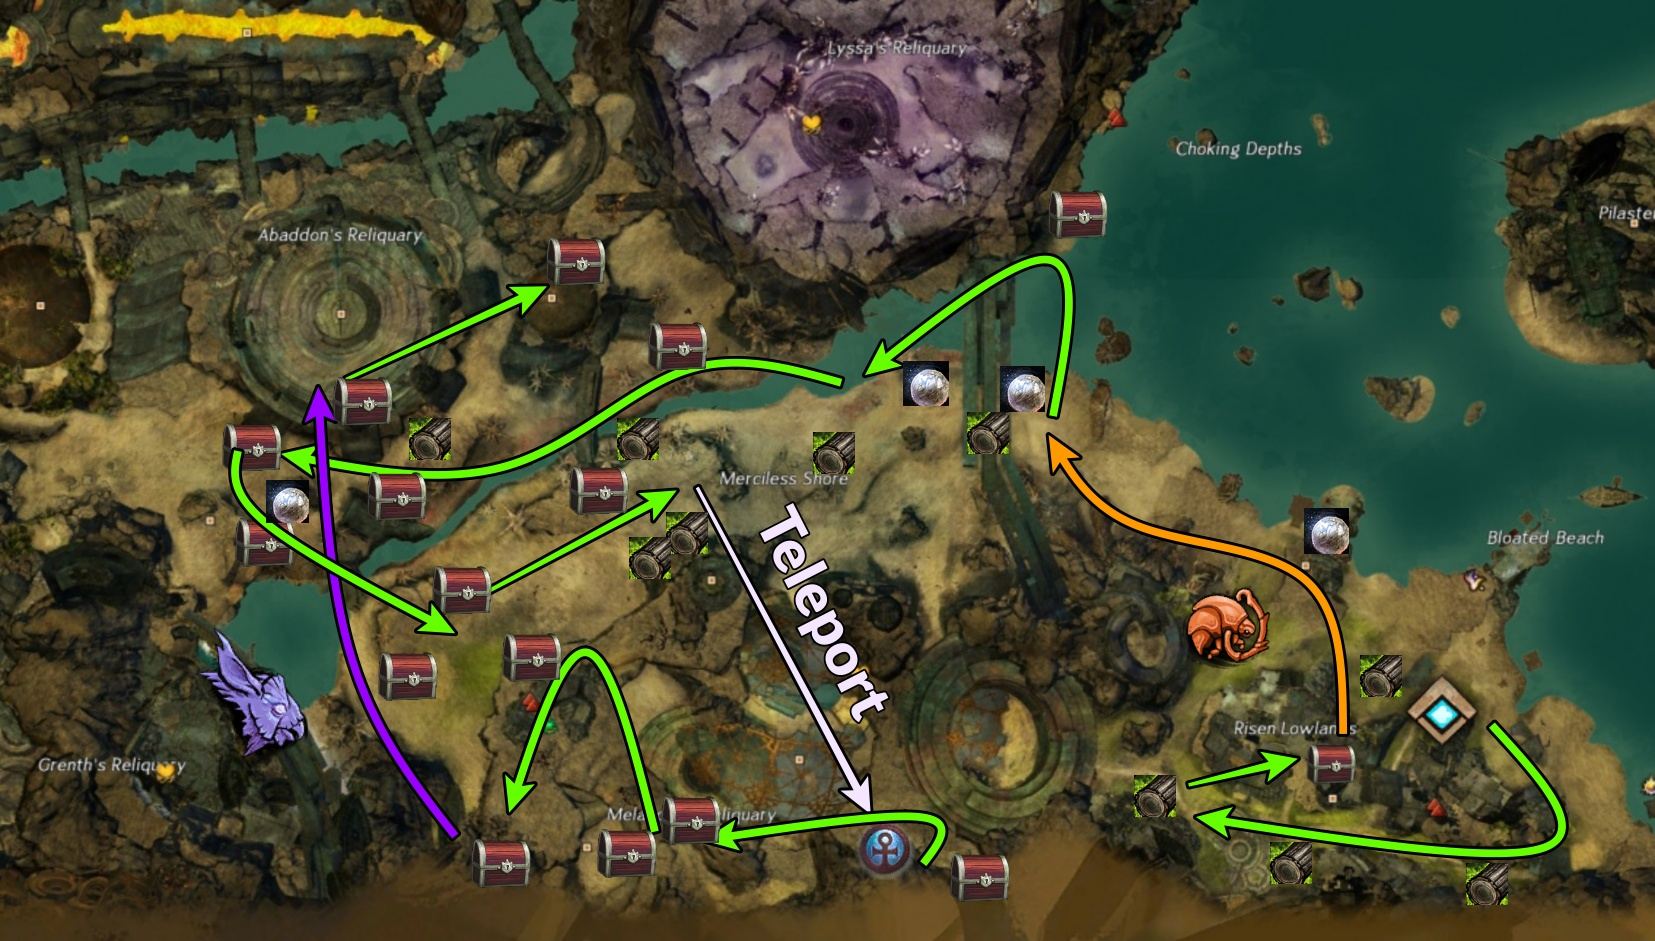
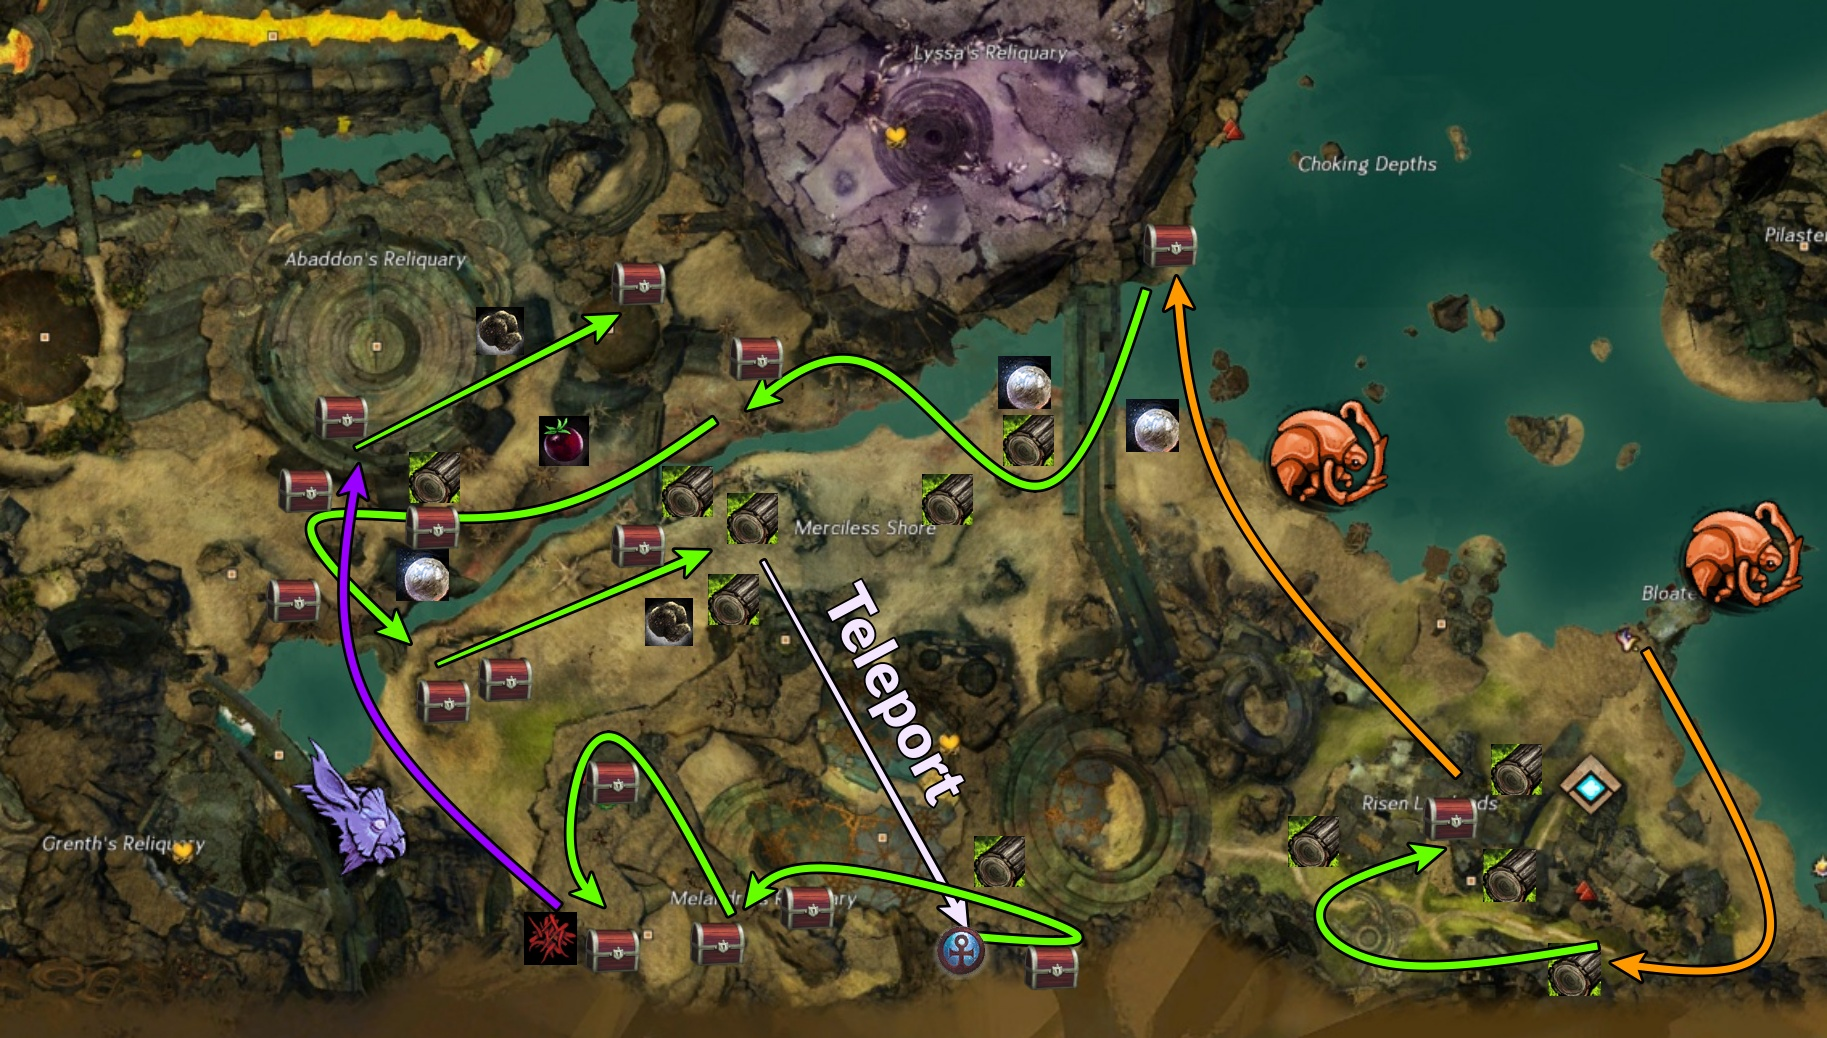
Able to add chests in est benchmarks

Changed region(s): [[0.1233, 0.1849, 0.9861, 0.9554], [0.8937, 0.4623, 0.9861, 0.6164], [0.8937, 0.6164, 0.9245, 0.7088]]

diff --git a/cron/set-gathering.php b/cron/set-gathering.php
@@ -10,12 +10,14 @@ $glyphsDB->set_values();
 ?>
 
 <?php
-
+	// Get the data from the dbs
 	$nodesJSON = $nodesDB->get_values(); 
 	$glyphsJSON = $glyphsDB->get_values(); 
+	$chestsJSON = $chestsDB->get_values();
 
 	$nodesData = json_decode($nodesJSON, TRUE); 
 	$glyphsData = json_decode($glyphsJSON, TRUE);
+	$chestsData = json_decode($chestsJSON, TRUE);
 	//echo $nodesData[0]['node'] . "+" . $nodesData[0]['value'];
 	//echo var_dump($nodesData);
 	//echo var_dump($glyphsData);
@@ -205,21 +207,21 @@ $glyphsDB->set_values();
 				"Passiflora", 2, "Sickle",
 				"Lentil", 6, "Sickle"),
 		),
-		/*
+		
 		array(
-			"map" => "Sirens Landing",
+			"map" => "Siren\'s Landing",
 			"zone" => "Orr",
 			"level" => "71-80",
-			"time" => 3600,
-			"mats" => array("Mithril Ore", 2, "Pick",
-				"Cypress Sapling (Non-Magu, Non-Shiv)", 17, "Axe",
-				"Ancient Sapling", 3, "Axe",
-				"Orrian Oyster", 5, "Sickle",
-				"Omnomberry", 2, "Sickle",
-				"Orrian Truffle", 4, "Sickle",
-				"Black Crocus", 2, "Sickle"),
+			"time" => 312,
+			"mats" => array(
+				"Cypress Sapling (Non-Magu, Non-Shiv)", 16, "Axe",
+				"Orrian Sapling", 1, "Axe",
+				"Orrian Oyster", 4, "Sickle",
+				"Omnomberry", 4, "Sickle",
+				"Orrian Truffle", 3, "Sickle",
+				"Black Crocus", 2, "Sickle",
+				"Waterlogged Chest", 16, "Chest"),
 		), 
-		*/
 		array(
 			"map" => "Sparkfly Fen",
 			"zone" => "Maguuma Jungle",
@@ -229,7 +231,7 @@ $glyphsDB->set_values();
 				"Rich Platinum Ore", 3, "Pick",
 				"Banyan Sapling", 14, "Axe",
 				"Verdant Herbs (Maguuma Jungle)", 3, "Sickle"),
-		), 
+		),
 		/*
 		array(
 			"map" => "Timberline Falls",
@@ -265,7 +267,7 @@ $glyphsDB->set_values();
 	);
 
 	class Set_Gathering extends BenchmarksDB{
-		public function set_benchmarks($farm, $time, $pick, $axe, $sickle){
+		public function set_benchmarks($farm, $time, $pick, $axe, $sickle, $chests){
 			// Check if the table is empty or not
 			$checkEmpty = "SELECT * FROM gathering"; 
 			$resultEmpty = $this->connect()->query($checkEmpty);
@@ -276,43 +278,46 @@ $glyphsDB->set_values();
 			for ($i = 0; $i < count($pick); $i++){
 				for ($j = 0; $j < count($axe); $j++){
 					for ($k = 0; $k < count($sickle); $k++){
-						// The [1] is the value of the glyph
-						// Example: $pick[0][1] is array('watchknight', 12345)
-						// Sum all the values of each glyph with each tool
-						$gpc = ($pick[$i][1] + $axe[$j][1] + $sickle[$k][1]) * 0.85;
-						$resultPick = $pick[$i][0];
-						$resultAxe = $axe[$j][0];
-						$resultSickle = $sickle[$k][0];
-						$gph = (3600/$time) * $gpc;
+						for ($l = 0; $l < count($chests); $l++){
+							// The [1] is the value of the glyph
+							// Example: $pick[0][1] is array('watchknight', 12345)
+							// Sum all the values of each glyph with each tool
+							$gpc = ($pick[$i][1] + $axe[$j][1] + $sickle[$k][1] + $chests[$l][1]) * 0.85;
+							$resultPick = $pick[$i][0];
+							$resultAxe = $axe[$j][0];
+							$resultSickle = $sickle[$k][0];
+							$gph = (3600/$time) * $gpc;
 
-						// Format the time as in mins : seconds
-						$leftNum = floor($time/60); 
-						$rightNum = $time - ($leftNum * 60);
-						if (strlen($rightNum) <= 1){
-							$rightNum = "0".$rightNum; 
-						} else if (strlen($rightNum) > 1){
-							$rightNum = substr($rightNum, 0, 2);
+							// Format the time as in mins : seconds
+							$leftNum = floor($time/60); 
+							$rightNum = $time - ($leftNum * 60);
+							if (strlen($rightNum) <= 1){
+								$rightNum = "0".$rightNum; 
+							} else if (strlen($rightNum) > 1){
+								$rightNum = substr($rightNum, 0, 2);
+							}
+							$duration = $leftNum . ":" . $rightNum;
+
+							$sql = "INSERT IGNORE INTO gathering (name, pick, axe, sickle, gold_per_hour, gold_per_char, time_per_char)
+								VALUES ('$farm', '$resultPick', '$resultAxe', '$resultSickle', '$gph', '$gpc', '$duration')
+								ON DUPLICATE KEY UPDATE 
+									name = VALUES(name),
+									pick = VALUES(pick),
+									axe = VALUES(axe),
+									sickle = VALUES(sickle),
+									gold_per_hour = VALUES(gold_per_hour),
+									gold_per_char = VALUES(gold_per_char),
+									time_per_char = VALUES(time_per_char);";
+							$stmt = $this->connect()->exec($sql);
 						}
-						$duration = $leftNum . ":" . $rightNum;
-
-						$sql = "INSERT IGNORE INTO gathering (name, pick, axe, sickle, gold_per_hour, gold_per_char, time_per_char)
-							VALUES ('$farm', '$resultPick', '$resultAxe', '$resultSickle', '$gph', '$gpc', '$duration')
-							ON DUPLICATE KEY UPDATE 
-								name = VALUES(name),
-								pick = VALUES(pick),
-								axe = VALUES(axe),
-								sickle = VALUES(sickle),
-								gold_per_hour = VALUES(gold_per_hour),
-								gold_per_char = VALUES(gold_per_char),
-								time_per_char = VALUES(time_per_char);";
-						$stmt = $this->connect()->exec($sql);	
+							
 					}
 				}
 			}
 		}
 	}
 
-	function set_gathering_benchmarks($farm, $nodesData, $glyphsData){
+	function set_gathering_benchmarks($farm, $nodesData, $glyphsData, $chestsData){
 		$nodesArray = [];
 		$qtyArray = []; 
 		$toolsArray = []; 
@@ -320,11 +325,16 @@ $glyphsDB->set_values();
 		$overviewPick = [];
 		$overviewAxe = [];
 		$overviewSickle = [];
+		$overviewChests = [];
 
 		$pickCount = 0;
 		$axeCount = 0;
 		$sickleCount = 0;
+		$chestsCount = 0;
 
+		// Go through the farm['mats'] array and check the parameters
+		// There are 3 parameters: Node name, Node qty, and Tool type
+		// Push each paramater into their own arrays
 		for($i = 0; $i < count($farm['mats']); $i++){
 			switch ($i % 3){
 				// Node names
@@ -335,14 +345,11 @@ $glyphsDB->set_values();
 				case 2: array_push($toolsArray, $farm['mats'][$i]); break;
 			}
 		} 
-		//echo "map: " . var_dump($farm['map']);
 
-		//echo "this is nodesArray: " . var_dump($nodesArray); 
-
-		//echo var_dump($nodesData[1]['node']);
-		// Go thru amount of nodes in a farm
+		// Go thru each node listed in each farm above
 		for ($i = 0; $i < count($nodesArray); $i++){
 			if ($i == 0){
+				// If the previous tool type matches the current one, then add to the respective count
 			} else if ($toolsArray[$i-1] == $toolsArray[$i]){
 				switch ($toolsArray[$i]){
 					case "Pick": $pickCount += 1; break;
@@ -517,9 +524,17 @@ $glyphsDB->set_values();
 									}
 								} 
 								break;
-
 							}
 						}
+					}
+				}
+			} // End of nodes check loop
+			// Check if there's a chest in the farm
+			if ($toolsArray[$i] == "Chest"){
+				for ($l = 0; $l < count($chestsData); $l++){
+					if ($nodesArray[$i] == $chestsData[$l]['chest']){
+						$total = $chestsData[$l]['value'] * $qtyArray[$i];
+						array_push($overviewChests, array($chestsData[$l]['chest'], $total)); 
 					}
 				}
 			}
@@ -536,8 +551,11 @@ $glyphsDB->set_values();
 		if (count($overviewSickle) == 0){
 			array_push($overviewSickle, array("N/A", 0));
 		}
+		if (count($overviewChests) == 0){
+			array_push($overviewChests, array("N/A", 0));
+		}
 		$setGatheringDB = new Set_Gathering(); 
-		$setGatheringDB->set_benchmarks($farm['map'], $farm['time'], $overviewPick, $overviewAxe, $overviewSickle);
+		$setGatheringDB->set_benchmarks($farm['map'], $farm['time'], $overviewPick, $overviewAxe, $overviewSickle, $overviewChests);
 		/*
 		function add_data_into_array($toolCount, $overviewArray){
 			if ($toolCount == 0){ 
@@ -563,7 +581,7 @@ $glyphsDB->set_values();
 	}
 	for ($f = 0; $f < count($farms); $f++){
 		//echo var_dump($farms);
-		set_gathering_benchmarks($farms[$f], $nodesData, $glyphsData); 
+		set_gathering_benchmarks($farms[$f], $nodesData, $glyphsData, $chestsData); 
 	}
 	
 	

diff --git a/db/maps.php b/db/maps.php
@@ -165,54 +165,32 @@ class Chests extends BenchmarksDB{
 		// Check if there's any rows 
 		// If yes => Update data
 		// If no => Create table and fill in data
-		if ($resultEmpty->rowCount() > 0){
-			foreach ($chestData['spreadsheet'] as $chestSS){
-				$type = $chestSS['type'];
-				$map = $chestSS['map']; 
-				$chest = $chestSS['chest'];
-				$value = $chestSS['benchmark'];
-
-				// Insert into DB
-				$sql = "UPDATE chests
-				SET type = '$type', map = '$map', chest = '$chest', value = '$value'
-				WHERE map = '$map',;";
-				// Execute the SQL stmt 
-				$stmt = $this->connect()->exec($sql);
-			}
-		} else {
-			foreach ($chestData['spreadsheet'] as $chestSS){
-				$item = $chestSS['item'];
-				$worth = $chestSS['worth']; 
-				$sql = "INSERT IGNORE INTO nodes (node, value)
-				VALUES ('$item', '$worth');";
-				// Execute the SQL stmt 
-				$stmt = $this->connect()->exec($sql);
-			}
-		}
-
 		foreach ($chestData['spreadsheet'] as $chestSS){
 			$type = $chestSS['type'];
-			$map = $chestSS['map']; 
+			$map = addslashes($chestSS['map']); 
 			$chest = $chestSS['chest'];
 			$value = $chestSS['benchmark'];
-
-			$sql = "INSERT IGNORE INTO chests (type, map, chest, value)
-			VALUES ('$type', '$map', '$chest', '$value')
-			ON DUPLICATE KEY UPDATE 
-				glyph = VALUES(glyph),
-				tool = VALUES(tool),
-				level = VALUES(level),
-				value_per_strike = VALUES(value_per_strike),
-				value_per_node = VALUES(value_per_node);";
-			$stmt = $this->connect()->exec($sql);
+			// Check if there's no value at all
+			// If yes => skip, continue loop
+			// Otherwise => print to sql db
+			if ($value == ""){
+				echo "value: ".$value;
+				continue;
+			} else {
+				$sql = "INSERT IGNORE INTO chests (type, map, chest, value)
+				VALUES ('$type', '$map', '$chest', '$value')
+				ON DUPLICATE KEY UPDATE 
+					type = VALUES(type),
+					map = VALUES(map),
+					chest = VALUES(chest),
+					value = VALUES(value);";
+				$stmt = $this->connect()->exec($sql);
+			}
 		}
-		
 	}
-	// Return only a specific map
-	// ex: $request = "Sandswept Isles"
-	public function get_specific_map($request){
-		$sql = "SELECT * FROM `gathering` WHERE `name` LIKE '$request' ORDER BY `gold_per_hour` DESC";
-
+	public function get_values(){
+		// Get full table and sort by gold_per_hour col and descending
+		$sql = "SELECT * FROM chests ORDER BY value DESC";
 		$result = $this->connect()->query($sql);
 		// Create empty array
 		$array = Array();
@@ -474,5 +452,8 @@ $glyphsDB = new Glyphs();
 //$glyphsDB->set_values();
 
 $gatheringDB = new Gathering(); 
+
+// Chests
+$chestsDB = new Chests(); 
 
 ?>

diff --git a/maps/sirens-landing.php b/maps/sirens-landing.php
@@ -341,7 +341,6 @@
 		</div>
 
 		<div class = "small-description">
-			<center><iframe width="560" height="315" src="https://www.youtube.com/embed/AQbsEOZV0Hc" frameborder="0" allow="accelerometer; autoplay; clipboard-write; encrypted-media; gyroscope; picture-in-picture" allowfullscreen></iframe></center>
 
 			<span style = "font-weight: bold;"> Disclaimer:</span>
 			<br>
@@ -360,7 +359,7 @@
 			<br><br>
 			<span style = "font-weight: bold;"> Route:</span>
 			<br>
-			Start at Camp Reclamation Waypoint [&BO8JAAA=]. While this is a "node farm", there a lot of free chests that are along the way. This will net lots of Unidentified Gear while obtaining Elder Wood Logs. It is best to have the Shrines unlocked in the map. I did this in about 8-9 characters to acehieve a 1 hour farm. 
+			Start at Camp Reclamation Waypoint [&BO8JAAA=]. While this is a "node farm", there a lot of free chests that are along the way. This will net lots of Unidentified Gear while obtaining Elder Wood Logs. It is best to have the Shrines unlocked in the map. I did this in about 10-11 characters in 1 hour. 
 			<br><br>
 			While this farm uses specific Glyphs, check out the <a href = "../gathering.html#calculator" target = "_blank"><u> Node Farm Calcaulator</u></a> to test out the estimated profits with different Glyphs. 
 		</div>
@@ -373,7 +372,7 @@
 		<script> getGatheringBenchmark("benchmark-table","Siren's Landing Node Farm (w/ Volatile)"); </script>
 
 		<!-- Gathering Picture -->
-		<div class = "page-gathering-picture">
+		<div class = "page-picture">
 			<img title = "Siren's Landing" style = "width: 70%;" src = "../images/sirens-landing/node-farm.jpg">
 		</div>
 	</div> <!-- End of page-box -->

diff --git a/cron/maps-now.php b/cron/maps-now.php
@@ -5,5 +5,7 @@
 ?>
 
 <?php 
+	// Set benchmarks
 	$mapsDB->setMaps('maps');
+	$chestsDB->set_values();
 ?>
